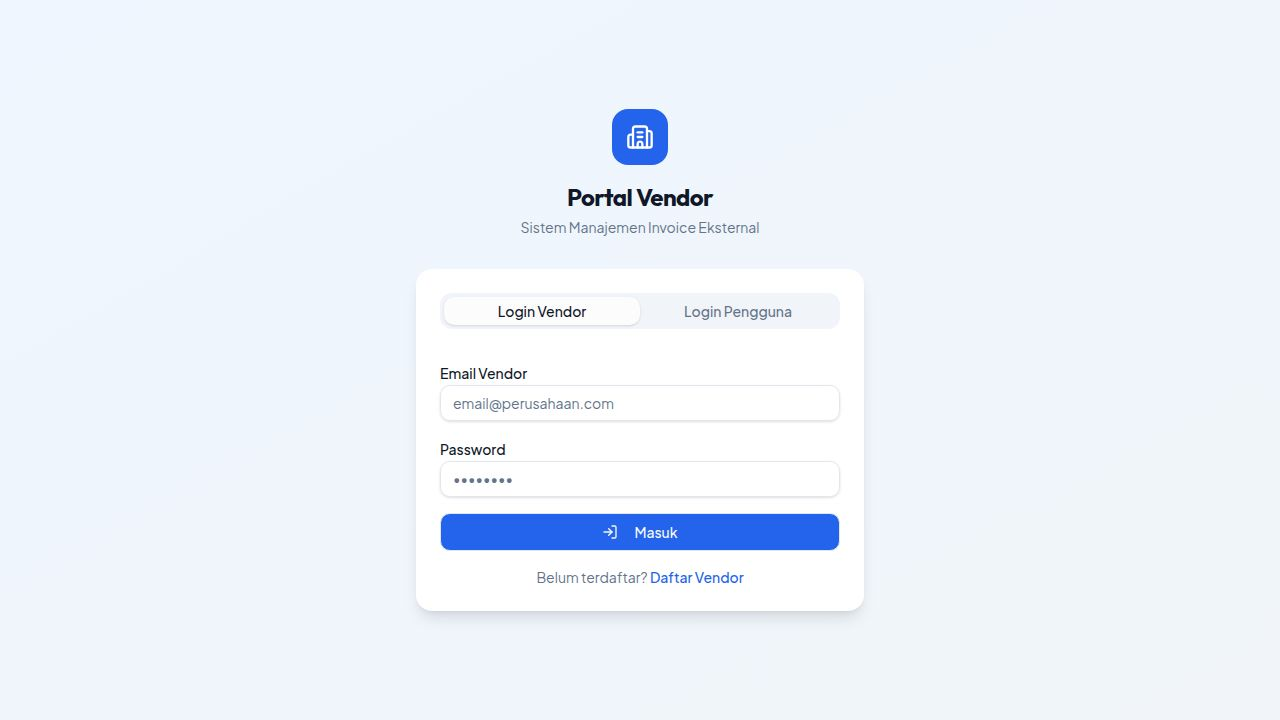
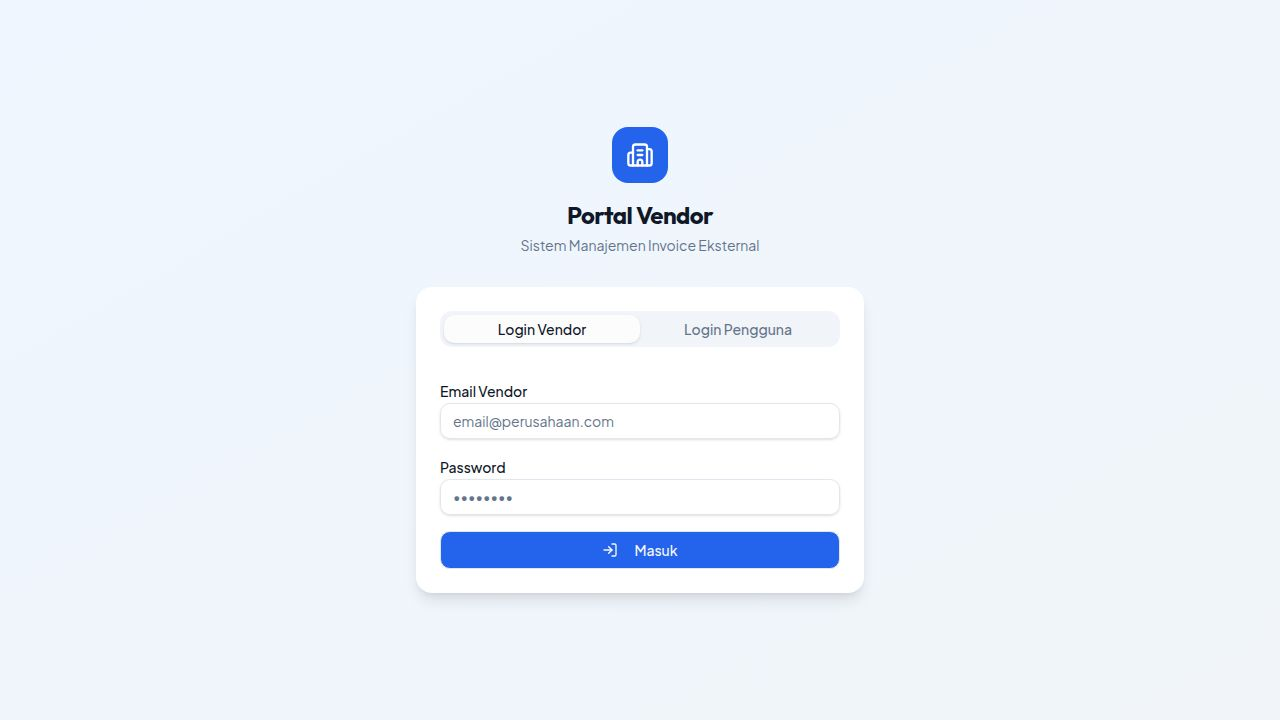
Add conditional visibility for vendor registration link on login page
Update `login.tsx` to fetch registration status from `/api/external/registration-status` and conditionally render the "Daftar Vendor" link based on the response.

Replit-Commit-Author: Agent
Replit-Commit-Session-Id: 3d2dab09-e2b9-457e-a0bf-06fa17634a96
Replit-Commit-Checkpoint-Type: full_checkpoint
Replit-Commit-Event-Id: 3051e2a5-b3f1-40af-9e2b-088a9234791e
Replit-Commit-Screenshot-Url: https://storage.googleapis.com/screenshot-production-us-central1/b220ee05-0798-4e83-b78a-45a9c8e455db/3d2dab09-e2b9-457e-a0bf-06fa17634a96/mvbfUxm
Replit-Helium-Checkpoint-Created: true

Changed region(s): [[0.3125, 0.4278, 0.6875, 0.8556], [0.4062, 0.1528, 0.5938, 0.3667], [0.5312, 0.4278, 0.625, 0.4889]]

diff --git a/artifacts/external-portal/src/pages/login.tsx b/artifacts/external-portal/src/pages/login.tsx
@@ -1,13 +1,15 @@
-import { useState } from "react";
+import { useState, useEffect } from "react";
 import { useLocation } from "wouter";
 import { apiPost } from "@/lib/api";
 import { useAuth } from "@/context/AuthContext";
 import { Button } from "@/components/ui/button";
 import { Input } from "@/components/ui/input";
 import { Label } from "@/components/ui/label";
-import { Card, CardContent, CardHeader, CardTitle, CardDescription } from "@/components/ui/card";
+import { Card, CardContent } from "@/components/ui/card";
 import { Tabs, TabsContent, TabsList, TabsTrigger } from "@/components/ui/tabs";
 import { Building2, LogIn, AlertCircle } from "lucide-react";
+
+const BASE = import.meta.env.BASE_URL?.replace(/\/$/, "") || "";
 
 export default function LoginPage() {
   const [, setLocation] = useLocation();
@@ -19,6 +21,14 @@ export default function LoginPage() {
   const [userPass, setUserPass] = useState("");
   const [error, setError] = useState("");
   const [loading, setLoading] = useState(false);
+  const [registrationEnabled, setRegistrationEnabled] = useState<boolean | null>(null);
+
+  useEffect(() => {
+    fetch(`${BASE}/api/external/registration-status`)
+      .then(r => r.ok ? r.json() : { enabled: false })
+      .then(d => setRegistrationEnabled(d.enabled === true))
+      .catch(() => setRegistrationEnabled(false));
+  }, []);
 
   const handleVendorLogin = async (e: React.FormEvent) => {
     e.preventDefault();
@@ -89,12 +99,14 @@ export default function LoginPage() {
                     <LogIn className="w-4 h-4 mr-2" />
                     {loading ? "Masuk..." : "Masuk"}
                   </Button>
-                  <p className="text-center text-sm text-muted-foreground">
-                    Belum terdaftar?{" "}
-                    <a href={import.meta.env.BASE_URL + "register"} className="text-primary hover:underline font-medium">
-                      Daftar Vendor
-                    </a>
-                  </p>
+                  {registrationEnabled === true && (
+                    <p className="text-center text-sm text-muted-foreground">
+                      Belum terdaftar?{" "}
+                      <a href={import.meta.env.BASE_URL + "register"} className="text-primary hover:underline font-medium">
+                        Daftar Vendor
+                      </a>
+                    </p>
+                  )}
                 </form>
               </TabsContent>
 
